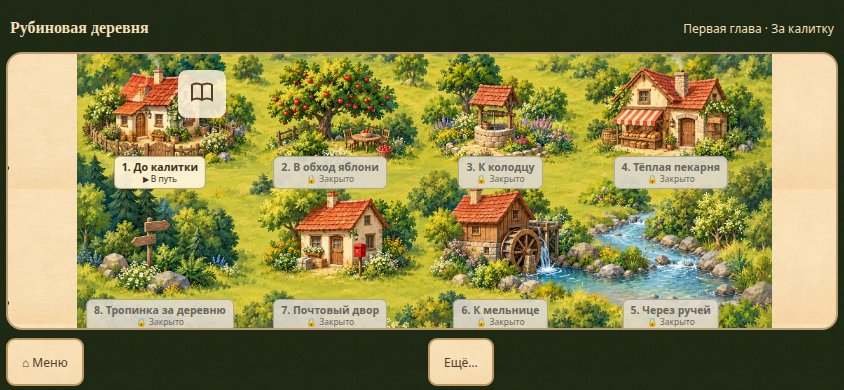
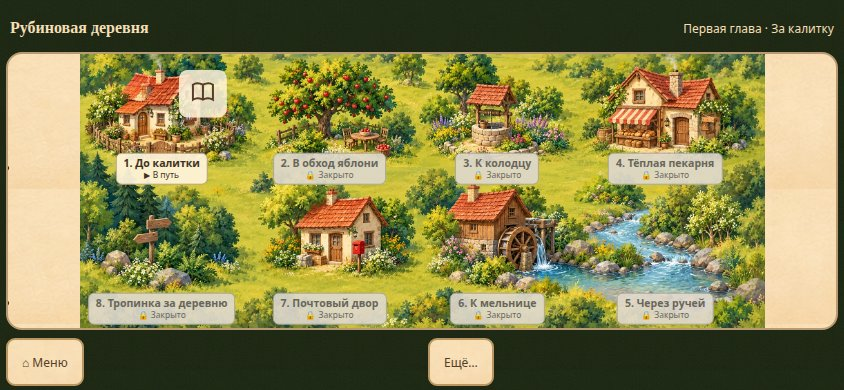
fix(#48): keep painted-map labels inside all target viewports

diff --git a/src/main.ts b/src/main.ts
@@ -548,7 +548,7 @@ function enterLevel(next:Level,resume:Session|null=null) {
 }
 function mapGeometry(){
  const points=[[120,95],[365,95],[610,95],[855,95],[855,300],[610,300],[365,300],[120,300]];
- const bounds=document.querySelector('.map-landscape')!.getBoundingClientRect(),fit=Math.min(bounds.width/1000,bounds.height/400);
+ const area=document.querySelector<HTMLElement>('.map-landscape')!,bounds={width:area.clientWidth,height:area.clientHeight},fit=Math.min(bounds.width/1000,bounds.height/400);
  $('map-world').style.cssText=`width:${1000*fit}px;height:${400*fit}px;left:${(bounds.width-1000*fit)/2}px;top:${(bounds.height-400*fit)/2}px`;
  const roads=$('map-roads');roads.replaceChildren();
  const entries=chapterMap(completed);

diff --git a/src/style.css b/src/style.css
@@ -235,3 +235,5 @@ dialog h2{font-size:21px}
 .audio-settings{display:flex;flex-wrap:wrap;gap:12px;align-items:center}
 .audio-settings label{display:flex;align-items:center;gap:6px;min-height:44px}
 .audio-settings input[type=range]{width:120px}
+
+.map-label{top:84%;line-height:1.2}

diff --git a/scripts/qa/coordinator-map.py b/scripts/qa/coordinator-map.py
@@ -1,0 +1,13 @@
+from pathlib import Path
+import json
+from playwright.sync_api import sync_playwright
+out=Path('/home/mskorokhod/life/ruby-village/docs/chapter-1-rc/evidence/map-runtime');out.mkdir(parents=True,exist_ok=True)
+with sync_playwright() as p:
+ b=p.chromium.launch();checks=[]
+ for w,h in [(1280,720),(844,390),(740,360),(915,412),(1024,768),(1920,1080)]:
+  page=b.new_page(viewport={'width':w,'height':h});errors=[];page.on('pageerror',lambda e:errors.append(str(e)));page.goto('http://127.0.0.1:5180/ruby-village/');page.locator('#choose-level').click();page.locator('#map-background').evaluate('(image)=>image.decode()');page.screenshot(path=str(out/f'map-new-{w}x{h}.jpg'),type='jpeg',quality=85)
+  boxes=page.locator('.level-card, .map-label').evaluate_all('(nodes)=>nodes.map(n=>{const r=n.getBoundingClientRect();return [r.x,r.y,r.width,r.height]})');assert len(boxes)==16
+  assert all(x>=0 and y>=0 and x+ww<=w+1 and y+hh<=h+1  for x,y,ww,hh in boxes),(w,h,boxes)
+  assert page.locator('.level-card:enabled').count()==1
+  assert not errors;checks.append({'viewport':[w,h],'eightTargetsInside':True,'labelsInside':True,'targetsAtLeast44px':page.locator('.level-card').evaluate_all('(ns)=>ns.every(n=>{const r=n.getBoundingClientRect();return r.width>=44&&r.height>=44})'),'errors':errors});page.close()
+ (out/'report.json').write_text(json.dumps(checks,indent=2)+'\n');b.close();print(checks)
